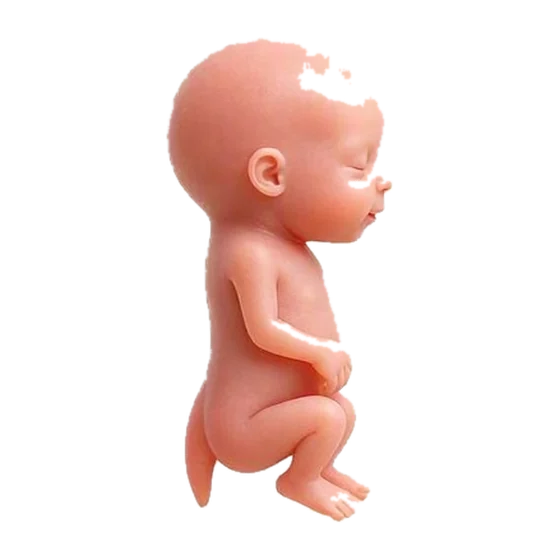
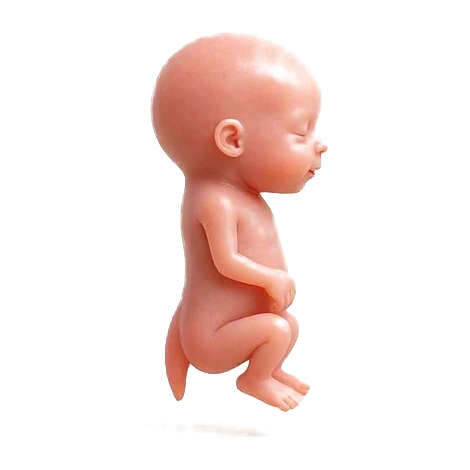
Treppige Bildkanten behoben
Zwei Ursachen: Die Freistellmaske war hart geschwellt und die Figuren wurden
anschließend hochskaliert (SSW 6 auf das 3,8-fache) - eine harte Maske
hochzuskalieren erzeugt Treppenstufen. Jetzt wird der Alphawert weich aus
der Farbsättigung abgeleitet und nichts mehr vergrößert.

Der dunkle Saum stammte dagegen aus den Renderings selbst: Ihre
Randschattierung ist für cremefarbenen Grund gemacht und wirkte auf dunklem
Untergrund wie ein Hof. Die Figuren stehen deshalb jetzt auf einer weichen
cremefarbenen Fläche.

diff --git a/index.html b/index.html
@@ -128,8 +128,12 @@ a{color:inherit}
 .jphoto-add{display:inline-flex;align-items:center;gap:.4rem;margin-top:.6rem;font-size:11.5px;font-weight:600;color:var(--gold-text);background:var(--c1);border:1px dashed var(--line2);border-radius:12px;padding:.6rem .9rem;cursor:pointer;min-height:42px}
 .jphoto-add:hover{border-color:var(--gold)}
 .jempty{font-size:13.5px;color:var(--ink4);line-height:1.6;padding:.8rem 0}
-.bfig{width:100%;height:100%;display:flex;align-items:center;justify-content:center}
-.bfig img{max-width:100%;max-height:100%;object-fit:contain;display:block}
+.bfig{width:100%;height:100%;display:flex;align-items:center;justify-content:center;position:relative}
+/* Die Renderings tragen ihre Randschattierung fuer cremefarbenen Grund in sich.
+   Ohne passende Flaeche dahinter wirkt der Rand auf dunklem Untergrund schmutzig. */
+.bfig::before{content:'';position:absolute;inset:4%;border-radius:50%;
+  background:radial-gradient(circle at 42% 38%, #FBF4E9 0%, #F3E8D7 62%, rgba(243,232,215,0) 78%)}
+.bfig img{max-width:100%;max-height:100%;object-fit:contain;display:block;position:relative}
 .bfig-fallback{width:100%;height:100%}
 .stagep{display:flex;gap:1.1rem;align-items:center;background:linear-gradient(135deg,var(--c1),var(--c2));border:1px solid var(--line);border-radius:18px;padding:1.1rem 1.2rem}
 .stagep-fig{width:100px;height:110px;flex-shrink:0}
@@ -378,7 +382,7 @@ a{color:inherit}
 function esc(s){return String(s||'').replace(/&/g,'&amp;').replace(/</g,'&lt;').replace(/>/g,'&gt;')}
 
 /* Versionsstempel – bei jeder Veröffentlichung aktualisiert */
-const APP_VERSION = '06.10.2026b';
+const APP_VERSION = '06.10.2026c';
 
 /* ============ ILLUSTRATIONS ============ */
 const ART = {
